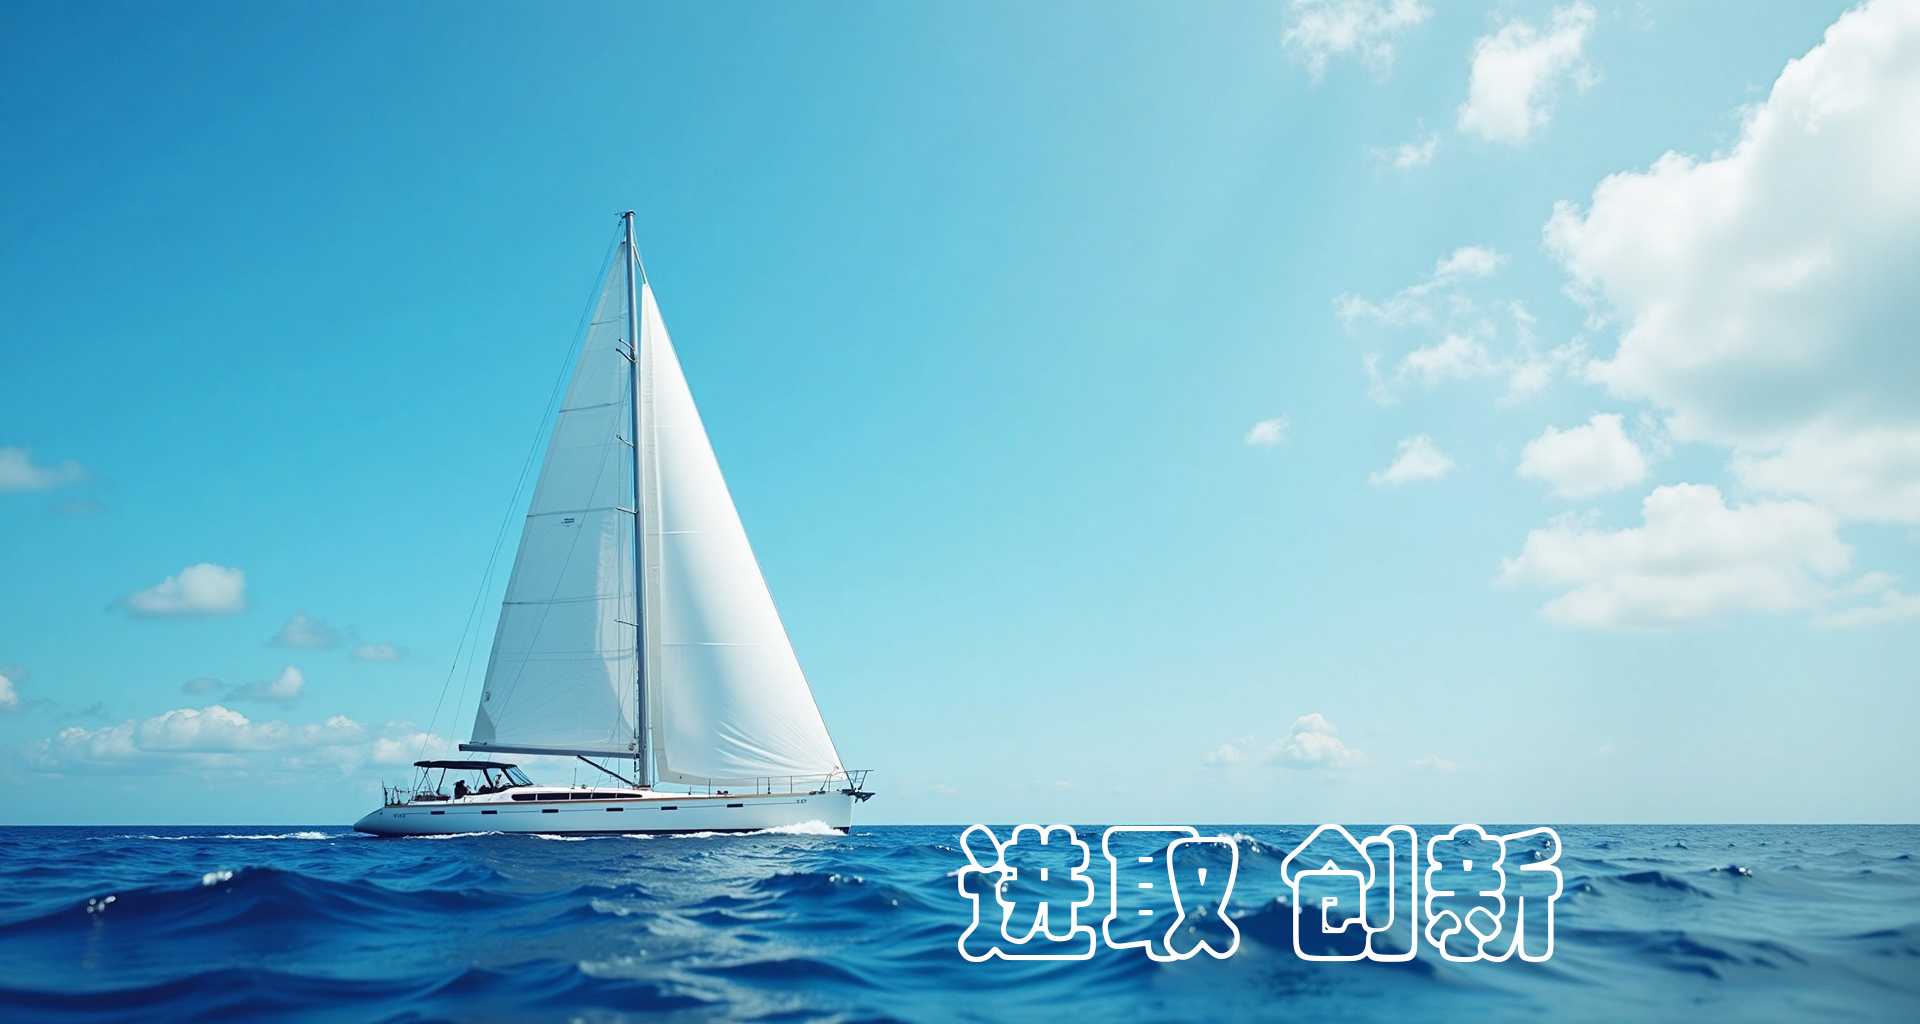
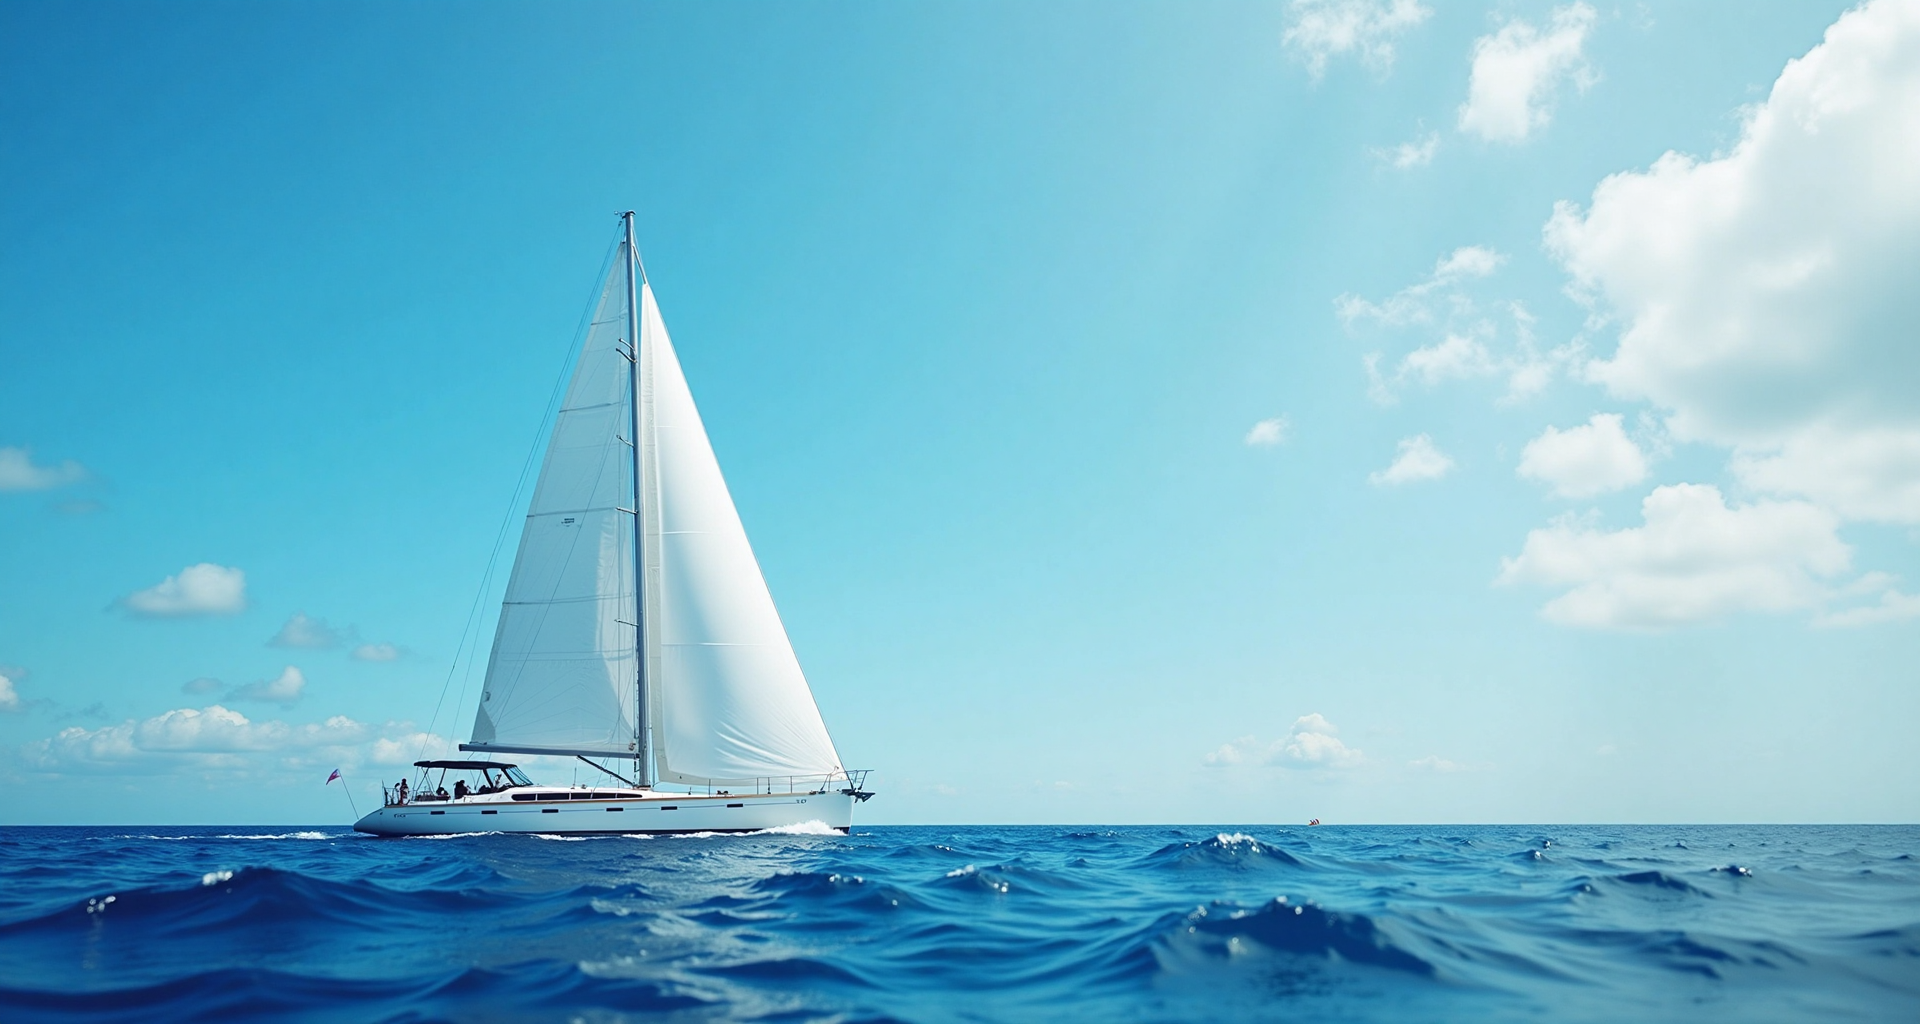
修改了首页文字

Changed region(s): [[0.5, 0.7812, 0.8125, 0.9375], [0.1875, 0.75, 0.2188, 0.7812]]

diff --git a/src/pages/Home.jsx b/src/pages/Home.jsx
@@ -1,5 +1,5 @@
-import React, { useState, useEffect } from 'react';
-import { Box } from '@mui/material';
+import React from 'react';
+import { Box, Typography } from '@mui/material';
 import { Swiper, SwiperSlide } from 'swiper/react';
 import { Autoplay, Navigation, Pagination } from 'swiper/modules';
 import 'swiper/css';
@@ -8,7 +8,7 @@ import 'swiper/css/pagination';
 
 const Home = () => {
   return (
-    <Box sx={{ width: '100%', height: 'calc(100vh - 64px)' }}>
+    <Box sx={{ width: '100%', height: 'calc(100vh - 64px)', position: 'relative' }}>
       <Swiper
         modules={[Autoplay, Navigation, Pagination]}
         navigation
@@ -25,10 +25,6 @@ const Home = () => {
             width: '100%', 
             height: '100%', 
             position: 'relative',
-            display: 'flex',
-            justifyContent: 'center',
-            alignItems: 'center',
-            overflow: 'hidden'
           }}>
             <img 
               src="/images/slide1.jpg" 
@@ -36,21 +32,62 @@ const Home = () => {
               style={{ 
                 width: '100%',
                 height: '100%',
-                objectFit: 'contain',
-                maxHeight: '100vh'
+                objectFit: 'cover',
+                objectPosition: 'center center'
               }} 
             />
+            {/* 添加半透明遮罩 */}
+            <Box sx={{
+              position: 'absolute',
+              top: 0,
+              left: 0,
+              width: '100%',
+              height: '100%',
+              backgroundColor: 'rgba(0, 0, 0, 0.3)',
+              zIndex: 1
+            }} />
+            {/* 添加标题文字 */}
+            <Box sx={{
+              position: 'absolute',
+              top: '50%',
+              left: '50%',
+              transform: 'translate(-50%, -50%)',
+              zIndex: 2,
+              textAlign: 'center',
+              width: '80%'
+            }}>
+              <Typography 
+                variant="h2" 
+                sx={{ 
+                  color: 'white', 
+                  fontWeight: 'bold',
+                  textShadow: '2px 2px 4px rgba(0,0,0,0.5)',
+                  mb: 2,
+                  fontSize: { xs: '2rem', sm: '3rem', md: '4rem' }
+                }}
+              >
+                进取创新
+              </Typography>
+              <Typography 
+                variant="h5" 
+                sx={{ 
+                  color: 'white',
+                  textShadow: '1px 1px 2px rgba(0,0,0,0.5)',
+                  fontSize: { xs: '1rem', sm: '1.5rem', md: '1.75rem' }
+                }}
+              >
+                新科恒辰 - 智能化系统解决方案专家
+              </Typography>
+            </Box>
           </Box>
         </SwiperSlide>
+        
+        {/* 其他轮播项使用相同的结构，只需更改图片和文字 */}
         <SwiperSlide>
           <Box sx={{ 
             width: '100%', 
             height: '100%', 
             position: 'relative',
-            display: 'flex',
-            justifyContent: 'center',
-            alignItems: 'center',
-            overflow: 'hidden'
           }}>
             <img 
               src="/images/slide2.jpg" 
@@ -58,21 +95,59 @@ const Home = () => {
               style={{ 
                 width: '100%',
                 height: '100%',
-                objectFit: 'contain',
-                maxHeight: '100vh'
+                objectFit: 'cover',
+                objectPosition: 'center center'
               }} 
             />
+            <Box sx={{
+              position: 'absolute',
+              top: 0,
+              left: 0,
+              width: '100%',
+              height: '100%',
+              backgroundColor: 'rgba(0, 0, 0, 0.3)',
+              zIndex: 1
+            }} />
+            <Box sx={{
+              position: 'absolute',
+              top: '50%',
+              left: '50%',
+              transform: 'translate(-50%, -50%)',
+              zIndex: 2,
+              textAlign: 'center',
+              width: '80%'
+            }}>
+              <Typography 
+                variant="h2" 
+                sx={{ 
+                  color: 'white', 
+                  fontWeight: 'bold',
+                  textShadow: '2px 2px 4px rgba(0,0,0,0.5)',
+                  mb: 2,
+                  fontSize: { xs: '2rem', sm: '3rem', md: '4rem' }
+                }}
+              >
+                专注敬业
+              </Typography>
+              <Typography 
+                variant="h5" 
+                sx={{ 
+                  color: 'white',
+                  textShadow: '1px 1px 2px rgba(0,0,0,0.5)',
+                  fontSize: { xs: '1rem', sm: '1.5rem', md: '1.75rem' }
+                }}
+              >
+                以专业态度打造卓越服务
+              </Typography>
+            </Box>
           </Box>
         </SwiperSlide>
+        
         <SwiperSlide>
           <Box sx={{ 
             width: '100%', 
             height: '100%', 
             position: 'relative',
-            display: 'flex',
-            justifyContent: 'center',
-            alignItems: 'center',
-            overflow: 'hidden'
           }}>
             <img 
               src="/images/slide3.jpg" 
@@ -80,10 +155,51 @@ const Home = () => {
               style={{ 
                 width: '100%',
                 height: '100%',
-                objectFit: 'contain',
-                maxHeight: '100vh'
+                objectFit: 'cover',
+                objectPosition: 'center center'
               }} 
             />
+            <Box sx={{
+              position: 'absolute',
+              top: 0,
+              left: 0,
+              width: '100%',
+              height: '100%',
+              backgroundColor: 'rgba(0, 0, 0, 0.3)',
+              zIndex: 1
+            }} />
+            <Box sx={{
+              position: 'absolute',
+              top: '50%',
+              left: '50%',
+              transform: 'translate(-50%, -50%)',
+              zIndex: 2,
+              textAlign: 'center',
+              width: '80%'
+            }}>
+              <Typography 
+                variant="h2" 
+                sx={{ 
+                  color: 'white', 
+                  fontWeight: 'bold',
+                  textShadow: '2px 2px 4px rgba(0,0,0,0.5)',
+                  mb: 2,
+                  fontSize: { xs: '2rem', sm: '3rem', md: '4rem' }
+                }}
+              >
+                合作共赢
+              </Typography>
+              <Typography 
+                variant="h5" 
+                sx={{ 
+                  color: 'white',
+                  textShadow: '1px 1px 2px rgba(0,0,0,0.5)',
+                  fontSize: { xs: '1rem', sm: '1.5rem', md: '1.75rem' }
+                }}
+              >
+                携手客户创造更大价值
+              </Typography>
+            </Box>
           </Box>
         </SwiperSlide>
       </Swiper>
